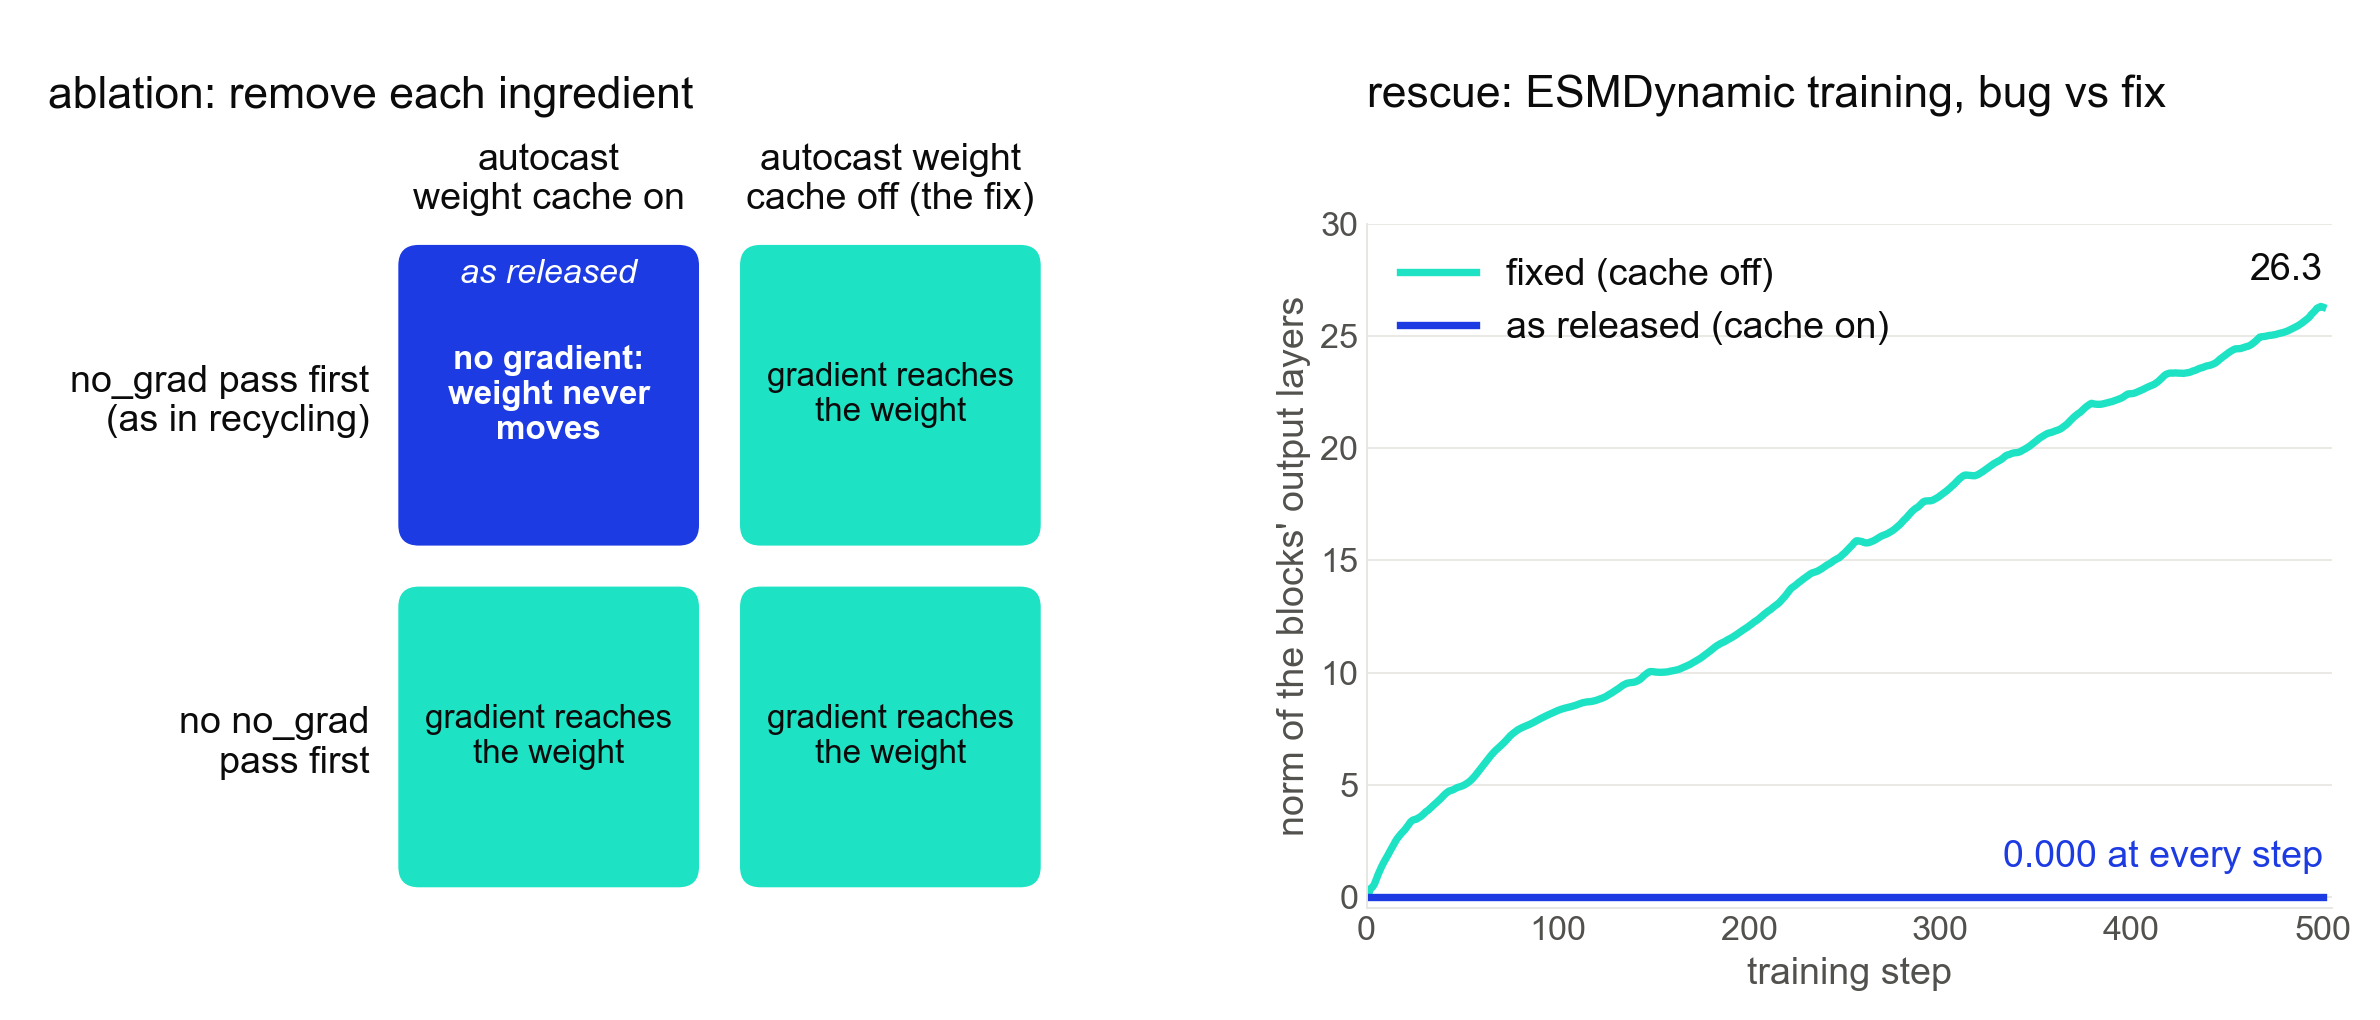
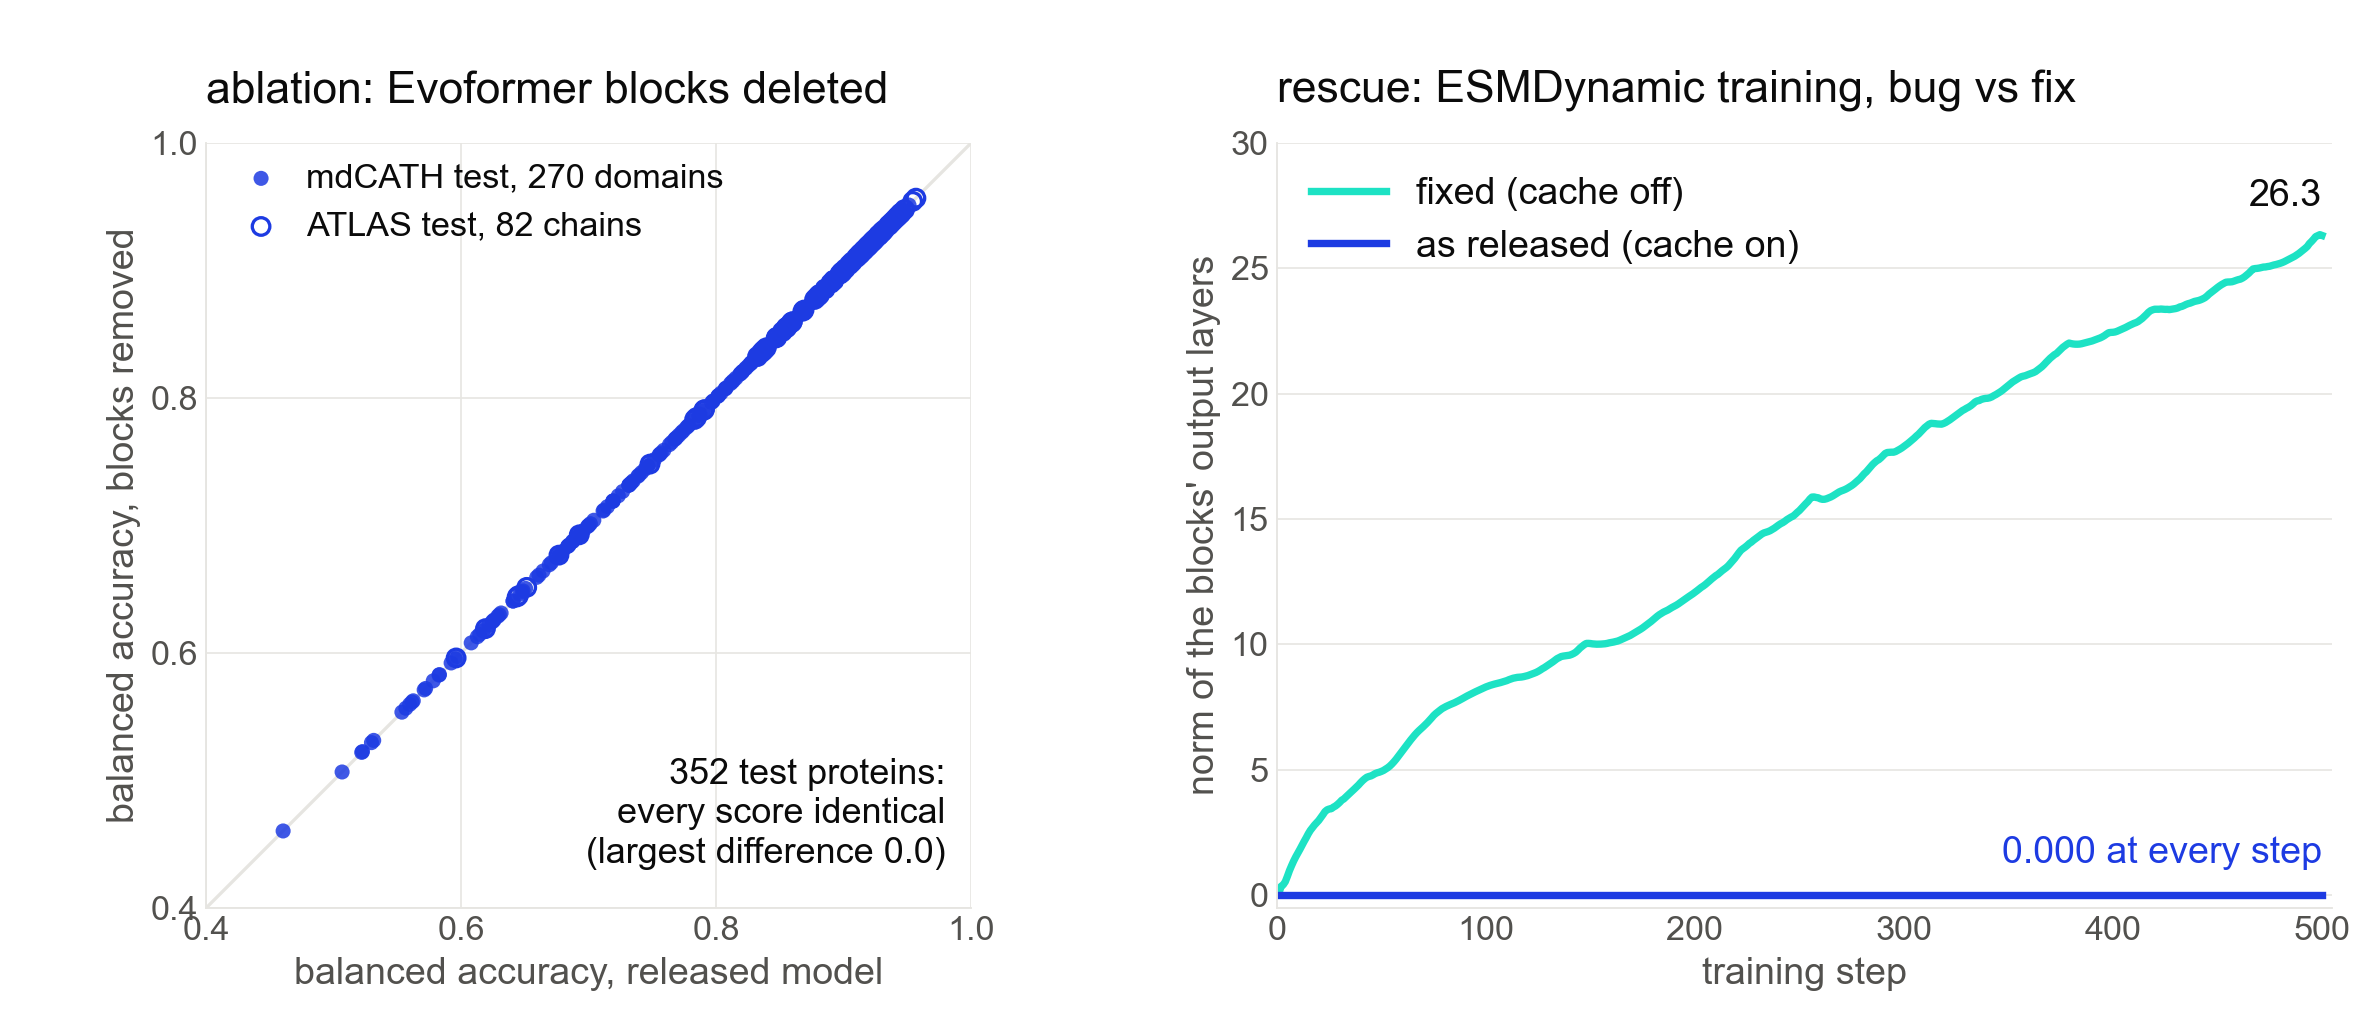
ablation_rescue: panel A is now the block-deletion ablation (352 test proteins, every score identical)

diff --git a/investigation/scripts/plot_ablation_rescue.py b/investigation/scripts/plot_ablation_rescue.py
@@ -4,10 +4,12 @@
     python investigation/scripts/plot_ablation_rescue.py --clean    # transparent, no title/caption, larger type
                                                                     #   -> figures/transparent/
 
-A  ablation (results/01_minimal_autocast_repro.json, note 04, job 2156988, L40S, bf16): a linear
-   layer used the way the DCM uses its blocks, with each of the two suspected ingredients
-   removed in turn -- the autocast weight cache, and a no_grad (recycling) pass before the
-   gradient pass. The weight gets no gradient only when both are present, as in train.py.
+A  ablation (notes 05, 12, 13; jobs 2200604 / 2200605): the released V2 model scored with its
+   Evoformer blocks deleted from every head, against the intact model, per test protein:
+   balanced accuracy for the 270 mdCATH test domains (320 K; pairs |i - j| >= 3, symmetrised,
+   scikit-learn style) and the 82 ATLAS test chains (train.py protocol). Every score is identical
+   (largest difference over every metric, temperature and protocol: 0.0), because the untrained
+   blocks are identity maps.
 B  rescue (results/07_training_check_cache_{on,off}.json, note 07, jobs 2157527 / 2157528): 500
    fine-tuning steps of ESMDynamic itself from the released V2 weights, identical batches and
    crops, differing only in autocast(cache_enabled=...). The norm of the blocks' zero-initialised
@@ -32,44 +34,58 @@ def main():
                             else "investigation/figures/gradient_flow/ablation_rescue.png"))
     fs = 1.45 if args.clean else 1.0
 
-    rep = json.loads((RES / "01_minimal_autocast_repro.json").read_text())
-    cells = {(r["cache_enabled"], r["no_grad_use_first"]): r["weight"] for r in rep["A"] if r["dtype"] == "bfloat16"}
+    import numpy as np
+    import pandas as pd
+
+    def mdcath(path):
+        d = pd.read_csv(path)
+        d = d[(d.variant == "sym") & (d.k == 3) & (d.temp == 320)].copy()
+        d["bal_acc"] = np.where(d.n_negative == 0, d.recall, d.bal_acc)
+        return d.set_index("id").bal_acc
+
+    def atlas(path):
+        d = pd.read_csv(path)
+        d = d[(d.protocol == "crop256") & (d.variant == "unsym") & (d.temp == 320)]
+        return d.groupby("id").bal_acc.mean()
+
+    md = pd.concat([mdcath(RES / "13_eval_pairset_mdcath_per_protein.csv"),
+                    mdcath(RES / "13_eval_pairset_mdcath_noevoformer_per_protein.csv")], axis=1, keys=["full", "noevo"])
+    at = pd.concat([atlas(RES / "12_eval_protocol_atlas_per_protein.csv"),
+                    atlas(RES / "12_eval_protocol_atlas_noevoformer_per_protein.csv")], axis=1, keys=["full", "noevo"])
+    max_diff = max(float((md.full - md.noevo).abs().max()), float((at.full - at.noevo).abs().max()))
     on = json.loads((RES / "07_training_check_cache_on.json").read_text())["train"]
     off = json.loads((RES / "07_training_check_cache_off.json").read_text())["train"]
 
     import matplotlib
     matplotlib.use("Agg")
     import matplotlib.pyplot as plt
-    from matplotlib.patches import FancyBboxPatch, Patch
     plt.rcParams["font.family"] = "Arial"
 
     fig = plt.figure(figsize=(14, 6.0 if args.clean else 6.8))
-    gs = fig.add_gridspec(1, 2, width_ratios=[1, 1.25], wspace=0.30, left=0.14, right=0.98,
-                          top=0.78 if args.clean else 0.66, bottom=0.11)
+    gs = fig.add_gridspec(1, 2, width_ratios=[1, 1.25], wspace=0.28, left=0.07, right=0.98,
+                          top=0.86 if args.clean else 0.74, bottom=0.11)
     a, b = fig.add_subplot(gs[0, 0]), fig.add_subplot(gs[0, 1])
 
-    # A: 2 x 2 ablation grid
-    cols = [(True, "autocast\nweight cache on"), (False, "autocast weight\ncache off (the fix)")]
-    rows = [(True, "no_grad pass first\n(as in recycling)"), (False, "no no_grad\npass first")]
-    for i, (ng, rlab) in enumerate(rows):
-        for j, (ce, clab) in enumerate(cols):
-            got = cells[(ce, ng)]
-            trains = got != "none"
-            a.add_patch(FancyBboxPatch((j + 0.06, 1 - i + 0.06), 0.88, 0.88, boxstyle="round,pad=0,rounding_size=0.06",
-                                       fc=FIX if trains else BUG, ec="none"))
-            txt = "gradient reaches\nthe weight" if trains else "no gradient:\nweight never\nmoves"
-            a.text(j + 0.5, 1 - i + 0.5, txt, ha="center", va="center", fontsize=11 * fs * (0.88 if args.clean else 1),
-                   color=INK if trains else "white", fontweight="bold" if not trains else "normal", linespacing=1.15)
-            if ce and ng:
-                a.text(j + 0.5, 1 - i + 0.90, "as released", ha="center", va="top",
-                       fontsize=10 * fs, color="white", style="italic")
-    a.set_xlim(0, 2); a.set_ylim(0, 2); a.set_aspect("equal")
-    a.set_xticks([0.5, 1.5]); a.set_xticklabels([c[1] for c in cols], fontsize=11 * fs, color=INK)
-    a.set_yticks([1.5, 0.5]); a.set_yticklabels([r[1] for r in rows], fontsize=11 * fs, color=INK)
-    a.tick_params(length=0)
-    a.xaxis.set_ticks_position("top")
-    for side in a.spines.values():
-        side.set_visible(False)
+    # A: ablation -- delete the Evoformer blocks from the released model
+    lw = 1.2 if args.clean else 1
+    a.plot([0, 1], [0, 1], color=GRID, lw=1.4, zorder=1)
+    a.scatter(md.full, md.noevo, s=34 * lw, color=BUG, alpha=0.85, edgecolors="none", zorder=3,
+              label=f"mdCATH test, {len(md)} domains")
+    a.scatter(at.full, at.noevo, s=46 * lw, facecolors="none", edgecolors=BUG, linewidths=1.4, zorder=4,
+              label=f"ATLAS test, {len(at)} chains")
+    a.set_xlim(0.4, 1.0); a.set_ylim(0.4, 1.0); a.set_aspect("equal")
+    a.set_xticks([0.4, 0.6, 0.8, 1.0]); a.set_yticks([0.4, 0.6, 0.8, 1.0])
+    a.set_xlabel("balanced accuracy, released model", fontsize=11 * fs, color=INK_2)
+    a.set_ylabel("balanced accuracy, blocks removed", fontsize=11 * fs, color=INK_2)
+    a.text(0.98, 0.43, f"{len(md) + len(at)} test proteins:\nevery score identical\n(largest difference {max_diff:.1f})",
+           ha="right", va="bottom", fontsize=10.5 * fs, color=INK, linespacing=1.25)
+    a.legend(loc="upper left", frameon=False, fontsize=10 * fs, labelcolor=INK, handletextpad=0.3, borderaxespad=0.2)
+    a.grid(color=GRID, lw=0.7, zorder=0); a.set_axisbelow(True)
+    for side in ("top", "right"):
+        a.spines[side].set_visible(False)
+    for side in ("left", "bottom"):
+        a.spines[side].set_color(GRID)
+    a.tick_params(colors=INK_2, labelsize=10 * fs, length=0)
 
     # B: rescue in ESMDynamic's own training
     s = [r["step"] for r in on]
@@ -90,22 +106,23 @@ def main():
     b.legend(loc="upper left", frameon=False, fontsize=11 * fs, labelcolor=INK)
 
     # panel titles at one height above both panels (A's top tick labels would collide with set_title)
-    top = 0.78 if args.clean else 0.66
-    for ax, t in ((a, "ablation: remove each ingredient"), (b, "rescue: ESMDynamic training, bug vs fix")):
-        x0 = ax.get_position().x0 if ax is b else 0.02
-        fig.text(x0, top + (0.105 if args.clean else 0.09), t, fontsize=13 * fs, color=INK, va="bottom", ha="left")
+    a.apply_aspect()                      # A is square: its frame is only known after the aspect is applied
+    y_title = max(a.get_position().y1, b.get_position().y1) + 0.03
+    for ax, t in ((a, "ablation: Evoformer blocks deleted"), (b, "rescue: ESMDynamic training, bug vs fix")):
+        fig.text(ax.get_position().x0, y_title, t, fontsize=13 * fs, color=INK, va="bottom", ha="left")
     if args.clean:
         for ax in (a, b):
             ax.set_facecolor("none")
     else:
-        fig.text(0.01, 0.99, "The autocast-cache bug is what keeps ESMDynamic's Evoformer blocks untrained: "
-                 "removing it rescues training", fontsize=14.5, color=INK, va="top")
-        fig.text(0.01, 0.945, "Left (ablation): a linear layer used as the DCM uses its blocks, bf16 autocast, each suspected "
-                 "ingredient removed in turn. The weight gets no gradient only when the weight cache and a no_grad recycling pass "
-                 "\nare both present, the setup train.py runs (note 04, job 2156988). Right (rescue): 500 fine-tuning steps of "
-                 "ESMDynamic from the released weights, identical batches and crops, differing only in "
-                 "autocast(cache_enabled=...).\nWith the bug the blocks' zero-initialised output layers stay at exactly 0; with "
-                 "the fix they train from step 1 (note 07, jobs 2157527 / 2157528).",
+        fig.text(0.01, 0.99, "ESMDynamic's Evoformer blocks do nothing in the released model, and the autocast-cache bug "
+                 "is why: removing it rescues training", fontsize=14.5, color=INK, va="top")
+        fig.text(0.01, 0.945, "Left (ablation): the released model with its Evoformer blocks deleted from every head, scored "
+                 "against the intact model on every test protein. Balanced accuracy (mdCATH: 320 K, pairs |i - j| >= 3, "
+                 "symmetrised; ATLAS: train.py protocol)\nis identical for all 352 proteins, as is every other metric at every "
+                 "temperature (notes 05, 12, 13; jobs 2200604 / 2200605). Right (rescue): 500 fine-tuning steps of ESMDynamic "
+                 "from the released weights, identical batches\nand crops, differing only in autocast(cache_enabled=...). With "
+                 "the bug the blocks' zero-initialised output layers stay at exactly 0; with the fix they train from step 1 "
+                 "(note 07, jobs 2157527 / 2157528).",
                  fontsize=9, color=INK_2, va="top", linespacing=1.45)
     out.parent.mkdir(parents=True, exist_ok=True)
     if args.clean:

diff --git a/investigation/figures/transparent/README.md b/investigation/figures/transparent/README.md
@@ -12,4 +12,4 @@ other folders and are the reference for what each figure shows.
 | `15_trained_vs_untrained_params.png` | `python investigation/scripts/plot_param_pies.py` (counts: `param_counts.py` → `results/15_param_counts.json`) | none: made for this folder. Per head of the released V2 weights, parameters trained (teal) vs still at initialisation (dark blue: every DCM block tensor, plus the occupancy head's single-state path) |
 | `E1_block_weights_at_init.png` | `python investigation/scripts/plot_evidence.py --clean` | `figures/evidence/E1_block_weights_at_init.png` (EVIDENCE E1). Released V2 weights only (V1 dropped), bars in the dark blue #1D3BE2, larger type |
 | `15_pretrain_leakage.png` | `python investigation/scripts/plot_leakage.py --clean` | `figures/leakage/15_pretrain_leakage.png`. Test proteins also in RCSB pre-training, and the released weights' scores by group (`results/15_leakage_effect.json`) |
-| `ablation_rescue.png` | `python investigation/scripts/plot_ablation_rescue.py --clean` | `figures/gradient_flow/ablation_rescue.png`. Ablation (minimal reproduction: the weight gets no gradient only with both the weight cache and a no_grad pass) and rescue (check 7: blocks stay at 0 with the bug, train with the fix) |
+| `ablation_rescue.png` | `python investigation/scripts/plot_ablation_rescue.py --clean` | `figures/gradient_flow/ablation_rescue.png`. Ablation (released model with its Evoformer blocks deleted: every test protein's score identical) and rescue (check 7: blocks stay at 0 with the bug, train with the fix) |
